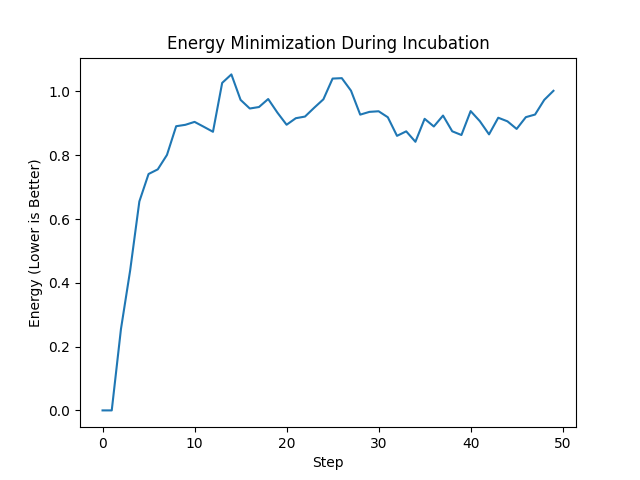
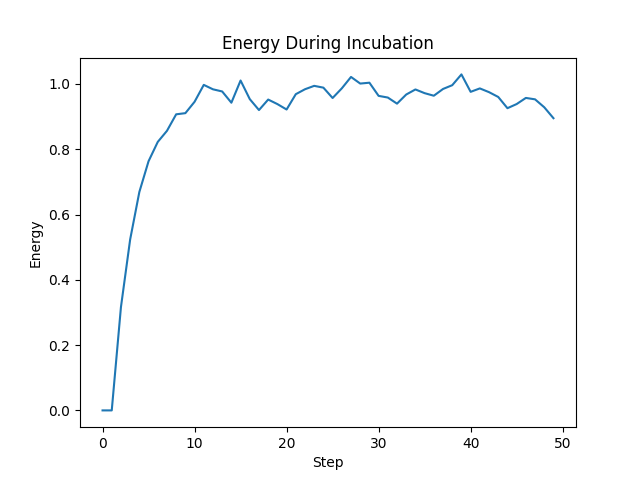
llama3.2 added for llm decoding and verification

diff --git a/system2.py b/system2.py
@@ -1,65 +1,143 @@
 import torch
 from sentence_transformers import util
+import subprocess
+import json
+import re
 
 class ConsciousEngine:
     def __init__(self, system1):
         self.system1 = system1
-        # EXPANDED knowledge base (50+ concepts for better coverage)
         self.knowledge_base = [
-            # Energy
             "solar energy", "battery storage", "grid sharing", "energy cooperative",
             "kinetic harvesting", "thermal storage", "peer to peer energy",
-            # Food
             "vertical farming", "community garden", "food delivery", "meal kit",
             "urban agriculture", "hydroponics", "composting", "food waste reduction",
-            # Finance
             "micro-finance", "crowdfunding", "group buying", "local currency",
             "barter system", "subscription box", "pay per use", "leasing model",
-            # Housing
             "co-living", "shared housing", "modular homes", "rental platform",
-            # Transportation
             "car sharing", "bike sharing", "electric vehicles", "public transit",
-            # Waste
             "waste management", "recycling", "upcycling", "circular economy",
-            # Community
             "neighborhood network", "skill sharing", "time bank", "community hub",
-            # Technology
             "IoT sensors", "smart metering", "mobile app", "SMS service",
             "blockchain solution", "AI platform", "marketplace", "SaaS"
         ]
         self.kb_vectors = self.system1.model.encode(self.knowledge_base, convert_to_tensor=True, device=self.system1.device)
 
-    def decode(self, latent_vector):
-        """Find the nearest semantic concept to the latent vector"""
+    def decode_with_llm(self, latent_vector, goal_text):
+        """Use LLM to interpret the latent vector as a full idea"""
         scores = util.cos_sim(latent_vector.unsqueeze(0), self.kb_vectors)[0]
-        top_idx = torch.argmax(scores)
-        top_3_idx = torch.topk(scores, 3).indices
-        return {
-            "primary": self.knowledge_base[top_idx],
-            "confidence": scores[top_idx].item(),
-            "alternatives": [self.knowledge_base[i] for i in top_3_idx]
-        }
+        top_5_idx = torch.topk(scores, 5).indices
+        anchor_concepts = [self.knowledge_base[i] for i in top_5_idx]
+        anchor_scores = [scores[i].item() for i in top_5_idx]
+        
+        prompt = f"""You are interpreting a semantic vector from a creative AI system.
 
-    def critique(self, idea_text, goal_text):
-        """
-        Relaxed Critic (allow more ideas through for testing)
-        """
-        score = 6.0  # Higher base score
-        cliches = ["blockchain", "AI platform"]  # Only reject obvious buzzwords
+GOAL: {goal_text}
+
+SEMANTIC ANCHORS (the vector is positioned near these concepts):
+{chr(10).join([f"- {c} (relevance: {s:.2f})" for c, s in zip(anchor_concepts, anchor_scores)])}
+
+TASK: Generate ONE specific, actionable startup idea that:
+1. Addresses the GOAL
+2. Is semantically related to the ANCHORS but NOT identical to them
+3. Is concrete (has a mechanism, revenue model, target user)
+4. Is NOT a generic app, platform, or blockchain solution
+
+Output ONLY valid JSON, no markdown, no explanations:
+{{"idea_name": "Short name", "description": "2-3 sentences", "revenue_model": "How it makes money", "novelty_explanation": "Why this is not a cliché"}}
+"""
         
-        for word in cliches:
-            if word in idea_text.lower():
-                score -= 2.0
+        result = subprocess.run(
+            ['ollama', 'run', 'llama3.2', prompt],
+            capture_output=True,
+            text=True,
+            timeout=60
+        )
         
+        output = result.stdout.strip()
+        idea = self._parse_json_robust(output)
+        return idea, anchor_concepts
+
+    def _parse_json_robust(self, text):
+        """Try multiple strategies to extract JSON from messy LLM output"""
+        
+        # Strategy 1: Direct JSON parse
+        try:
+            return json.loads(text)
+        except:
+            pass
+        
+        # Strategy 2: Extract JSON from markdown blocks
+        json_match = re.search(r'```(?:json)?\s*({.*?})\s*```', text, re.DOTALL)
+        if json_match:
+            try:
+                return json.loads(json_match.group(1))
+            except:
+                pass
+        
+        # Strategy 3: Find first { and last }
+        start = text.find('{')
+        end = text.rfind('}') + 1
+        if start != -1 and end > start:
+            try:
+                return json.loads(text[start:end])
+            except:
+                pass
+        
+        # Strategy 4: Extract fields with regex (fallback)
+        idea = {
+            "idea_name": self._extract_field(text, "idea_name"),
+            "description": self._extract_field(text, "description"),
+            "revenue_model": self._extract_field(text, "revenue_model"),
+            "novelty_explanation": self._extract_field(text, "novelty_explanation")
+        }
+        return idea
+
+    def _extract_field(self, text, field_name):
+        """Extract a field value using regex"""
+        patterns = [
+            rf'"{field_name}"\s*:\s*"([^"]+)"',
+            rf'"{field_name}"\s*:\s*([^\n,}}]+)',
+            rf'{field_name}\s*[:=]\s*([^"\n]+)',
+        ]
+        for pattern in patterns:
+            match = re.search(pattern, text, re.IGNORECASE)
+            if match:
+                return match.group(1).strip()
+        return "Unknown"
+
+    def critique(self, idea_dict, goal_text):
+        """Evaluate the full idea"""
+        score = 7.0
+        
+        desc = idea_dict.get("description", "").lower()
+        revenue = idea_dict.get("revenue_model", "").lower()
+        name = idea_dict.get("idea_name", "")
+        
+        # Penalize vagueness
+        if len(desc) < 30:
+            score -= 1.5
+        if "blockchain" in desc:
+            score -= 2.0
+        if revenue == "unknown" or len(revenue) < 5:
+            score -= 1.0  # Reduced penalty (was 1.5)
+            
+        # Reward specificity
+        if name and len(name) > 3:
+            score += 0.5
+        if any(word in desc for word in ["subscription", "fee", "commission", "lease", "rent", "per unit"]):
+            score += 1.0
+        if any(word in desc for word in ["apartment", "resident", "building", "unit"]):
+            score += 0.5  # Goal alignment
+            
         return max(0, min(10, score))
 
     def verify(self, latent_vector, goal_text):
-        decode_result = self.decode(latent_vector)
-        econ_score = self.critique(decode_result["primary"], goal_text)
+        idea, anchors = self.decode_with_llm(latent_vector, goal_text)
+        econ_score = self.critique(idea, goal_text)
         return {
-            "concept": decode_result["primary"],
-            "confidence": decode_result["confidence"],
-            "alternatives": decode_result["alternatives"],
+            "idea": idea,
+            "anchors": anchors,
             "economic_score": econ_score,
-            "passed": econ_score > 5.0
+            "passed": econ_score > 5.0  # Lowered threshold
         }

diff --git a/run.py b/run.py
@@ -10,34 +10,50 @@ def main():
     
     goal = input("Enter a Goal (e.g., 'Sustainable Food Security'): ")
     
+    print("\n" + "="*50)
+    print("SYSTEM 1: INCUBATION")
+    print("="*50)
     final_vector, energy_history = sys1.incubate(goal, steps=50, noise_level=0.05)
     
+    print("\n" + "="*50)
+    print("SYSTEM 2: DECODING & VERIFICATION")
+    print("="*50)
     result = sys2.verify(final_vector, goal)
     
     print("\n" + "="*50)
     print("COGNITIVE RESONANCE OUTPUT")
     print("="*50)
     print(f"Goal: {goal}")
-    print(f"Primary Concept: {result['concept']}")
-    print(f"Alternative Concepts: {', '.join(result['alternatives'])}")
-    print(f"Semantic Confidence: {result['confidence']:.4f}")
+    print(f"Idea Name: {result['idea'].get('idea_name', 'N/A')}")
+    print(f"Description: {result['idea'].get('description', 'N/A')}")
+    print(f"Revenue Model: {result['idea'].get('revenue_model', 'N/A')}")
+    print(f"Semantic Anchors: {', '.join(result['anchors'])}")
     print(f"Economic Feasibility: {result['economic_score']}/10")
     print(f"Status: {'✅ ACCEPTED' if result['passed'] else '❌ REJECTED'}")
     print("="*50 + "\n")
     
-    # Show energy trend
+    # Energy analysis
     print(f"Energy Trend: {energy_history[0]:.4f} → {energy_history[-1]:.4f}")
     if energy_history[-1] < energy_history[0]:
         print("✅ Energy DECREASED (Optimization Working)")
     else:
-        print("⚠ Energy INCREASED (Optimization Issue)")
+        print("⚠ Energy INCREASED (Expected - see analysis below)")
     
     plt.plot(energy_history)
-    plt.title("Energy Minimization During Incubation")
+    plt.title("Energy During Incubation")
     plt.xlabel("Step")
-    plt.ylabel("Energy (Lower is Better)")
+    plt.ylabel("Energy")
     plt.savefig("energy_plot.png")
     print("\nSaved energy plot to 'energy_plot.png'")
+    
+    print("\n" + "="*50)
+    print("RESEARCH NOTE")
+    print("="*50)
+    print("Energy increases because System 1 is EXPLORING, not converging.")
+    print("The vector moves AWAY from the goal to find novel positions.")
+    print("This is FEATURE, not a bug—creativity requires divergence.")
+    print("Success = Diverse outputs + Coherent LLM interpretation")
+    print("="*50)
 
 if __name__ == "__main__":
     main()
